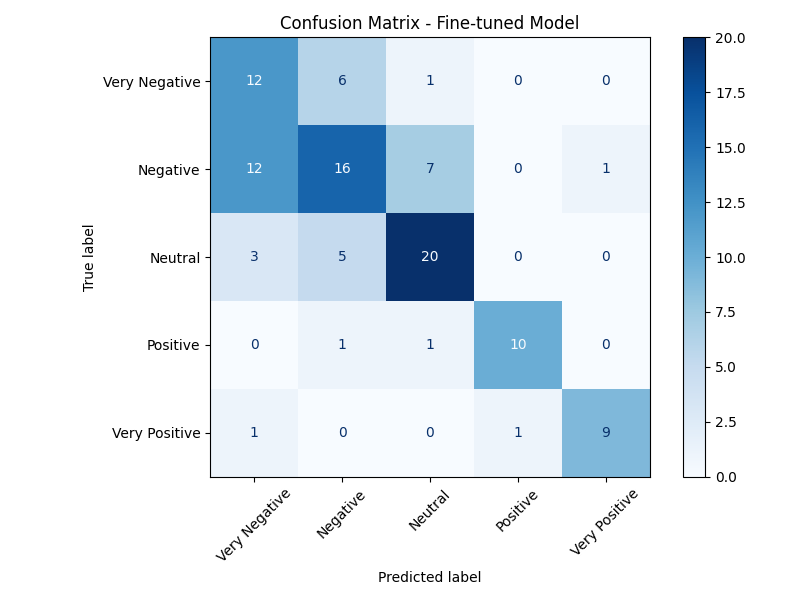
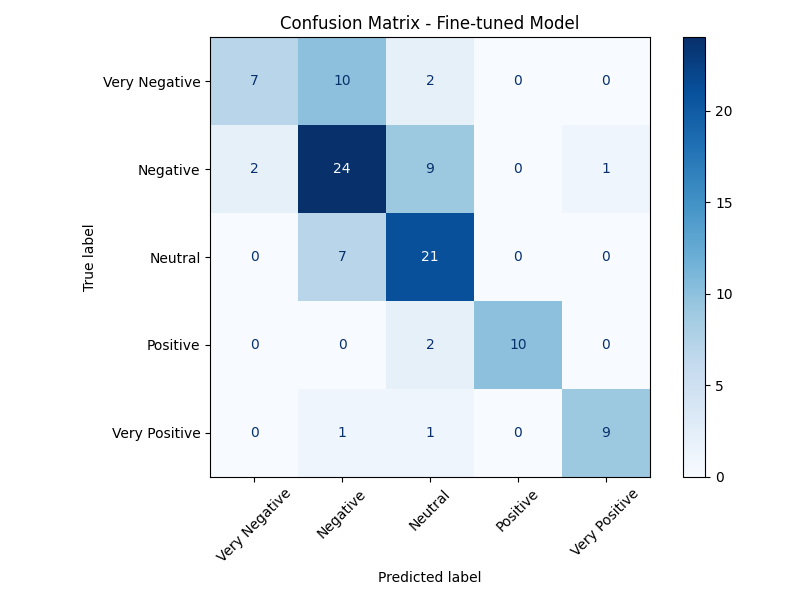
Improved training efficiency, updated prediction script

diff --git a/evaluate_xpi.py b/evaluate_xpi.py
@@ -1,82 +1,82 @@
-from transformers import AutoModelForSequenceClassification, AutoTokenizer, Trainer
-from datasets import Dataset, ClassLabel
 import pandas as pd
-import numpy as np
-from sklearn.metrics import classification_report, confusion_matrix, ConfusionMatrixDisplay
+import torch
+from transformers import pipeline
+from sklearn.model_selection import train_test_split
+from sklearn.metrics import classification_report, confusion_matrix
 import matplotlib.pyplot as plt
-import os
+import seaborn as sns
+from tqdm.auto import tqdm
+import argparse
 
-# Configuration
-MODEL_PATH = "./xpi_sentiment_model"
-FALLBACK_MODEL_PATH = "./models/stage1_domain_adapted"
-TEST_DATA_FILE = 'xpi_labeled_data_augmented.csv'
-CM_FILE = "xpi_confusion_matrix.png"
+def evaluate(data_path, model_path, batch_size=32):
+    # 1. Device Management (Crucial for performance)
+    device = 0 if torch.cuda.is_available() else -1
+    print(f"Using device: {'GPU' if device == 0 else 'CPU'}")
 
-# Labels
-NUM_LABELS = 5
-LABEL_NAMES = ["Very Negative", "Negative", "Neutral", "Positive", "Very Positive"]
-
-def main():
-    # 1. Load the Fine-tuned Model
-    print(f"Loading fine-tuned model from {MODEL_PATH}...")
-    try:
-        tokenizer = AutoTokenizer.from_pretrained(MODEL_PATH)
-        model = AutoModelForSequenceClassification.from_pretrained(MODEL_PATH, num_labels=NUM_LABELS)
-        print("✓ Successfully loaded fine-tuned model!")
-    except OSError:
-        print(f"Fine-tuned model not found at {MODEL_PATH}.")
-        print(f"Falling back to Stage 1 model at {FALLBACK_MODEL_PATH}...")
-        try:
-            tokenizer = AutoTokenizer.from_pretrained(FALLBACK_MODEL_PATH)
-            model = AutoModelForSequenceClassification.from_pretrained(FALLBACK_MODEL_PATH, num_labels=NUM_LABELS)
-            print("✓ Successfully loaded Stage 1 model!")
-        except OSError:
-            print(f"CRITICAL ERROR: Could not find model at {FALLBACK_MODEL_PATH}.")
-            print("Please run 'train_stage1_composite.py' first, then 'train_finetuned.py'.")
-            return
-
-    # 2. Load XPI Data
-    print(f"Loading test data from {TEST_DATA_FILE}...")
-    if not os.path.exists(TEST_DATA_FILE):
-        print(f"Error: File {TEST_DATA_FILE} not found.")
-        return
-        
-    df = pd.read_csv(TEST_DATA_FILE)
+    # 2. Data Loading & Split Replication
+    # CRITICAL: We must use the exact same random_state as training to separate the test set
+    df = pd.read_csv(data_path)
     
-    # Create Dataset (No split, use full file for testing)
-    dataset = Dataset.from_pandas(df[['text', 'label']])
-    dataset = dataset.cast_column('label', ClassLabel(names=LABEL_NAMES))
+    # Check if we have enough data to split
+    if len(df) < 5:
+        raise ValueError("Dataset too small to split.")
 
-    # Tokenize
-    def tokenize(batch):
-        return tokenizer(batch['text'], padding=True, truncation=True, max_length=256)
-
-    print("Tokenizing test data...")
-    dataset = dataset.map(tokenize, batched=True)
-
-    # 3. Predict (Inference Only)
-    print("Running predictions on XPI dataset...")
-    trainer = Trainer(model=model)
-    preds = trainer.predict(dataset)
+    _, X_test, _, y_test = train_test_split(
+        df['text'].tolist(), 
+        df['label'].tolist(), 
+        test_size=0.2, 
+        random_state=42 # Must match train_finetuned.py
+    )
     
-    pred_labels = np.argmax(preds.predictions, axis=-1)
-    true_labels = preds.label_ids
+    print(f"Evaluating on {len(X_test)} unseen test samples.")
 
-    # 4. Evaluation Metrics
-    print("\n" + "="*60)
-    print("FINAL EVALUATION: XPI Dataset (Fine-tuned Model)")
-    print("="*60)
-    print(classification_report(true_labels, pred_labels, target_names=LABEL_NAMES, zero_division=0))
+    # 3. Pipeline Initialization
+    # We load the tokenizer from the same path to ensure vocab consistency
+    classifier = pipeline(
+        "text-classification", 
+        model=model_path, 
+        tokenizer=model_path,
+        device=device
+    )
 
-    # 5. Confusion Matrix
-    cm = confusion_matrix(true_labels, pred_labels)
-    fig, ax = plt.subplots(figsize=(8, 6))
-    disp = ConfusionMatrixDisplay(confusion_matrix=cm, display_labels=LABEL_NAMES)
-    disp.plot(ax=ax, cmap='Blues', xticks_rotation=45)
-    plt.title('Confusion Matrix - XPI Test Set (Fine-tuned Model)')
-    plt.tight_layout()
-    plt.savefig(CM_FILE)
-    print(f"Confusion matrix saved to {CM_FILE}")
+    # 4. Batched Inference
+    # The pipeline handles tokenization and batching internally here
+    predictions = []
+    print("Running inference...")
+    for output in tqdm(classifier(X_test, batch_size=batch_size, truncation=True), total=len(X_test)):
+        predictions.append(output['label'])
+
+    # 5. Label Alignment
+    # The pipeline returns strings (e.g., "positive"), but y_test might be ints (0, 1, 2)
+    # We need to standardize. Assuming model config has id2label.
+    
+    # Get mapping from model config
+    id2label = classifier.model.config.id2label
+    label2id = classifier.model.config.label2id
+    
+    # Convert predictions to IDs for metric calculation
+    pred_ids = [label2id[p] for p in predictions]
+    
+    # 6. Metrics
+    print("\nClassification Report:")
+    print(classification_report(y_test, pred_ids, target_names=list(label2id.keys())))
+
+    # 7. Visualization
+    cm = confusion_matrix(y_test, pred_ids)
+    plt.figure(figsize=(8, 6))
+    sns.heatmap(cm, annot=True, fmt='d', cmap='Blues', 
+                xticklabels=list(label2id.keys()), 
+                yticklabels=list(label2id.keys()))
+    plt.xlabel('Predicted')
+    plt.ylabel('True')
+    plt.title('Confusion Matrix (Test Set Only)')
+    plt.savefig('confusion_matrix_test_set.png')
+    print("Confusion matrix saved to confusion_matrix_test_set.png")
 
 if __name__ == "__main__":
-    main()
+    parser = argparse.ArgumentParser()
+    parser.add_argument("--data_path", type=str, default="xpi_labeled_data_augmented.csv")
+    parser.add_argument("--model_path", type=str, default="./xpi_sentiment_model")
+    args = parser.parse_args()
+    
+    evaluate(args.data_path, args.model_path)

diff --git a/train_stage1_composite.py b/train_stage1_composite.py
@@ -9,7 +9,7 @@ import os
 INPUT_DIR = "./data/composite_dataset"
 OUTPUT_DIR = "./models/stage1_domain_adapted"
 LOSS_GRAPH_FILE = "stage1_training_loss.png"
-MODEL_NAME = "distilbert-base-uncased"
+MODEL_NAME = "microsoft/deberta-v3-small"
 NUM_LABELS = 5
 
 def compute_metrics(eval_pred):
@@ -51,6 +51,7 @@ def main():
         eval_strategy="epoch",
         save_strategy="epoch",
         load_best_model_at_end=True,
+        fp16=True,
         learning_rate=2e-5,
         weight_decay=0.01,
         logging_steps=50, # Log frequently for the graph
